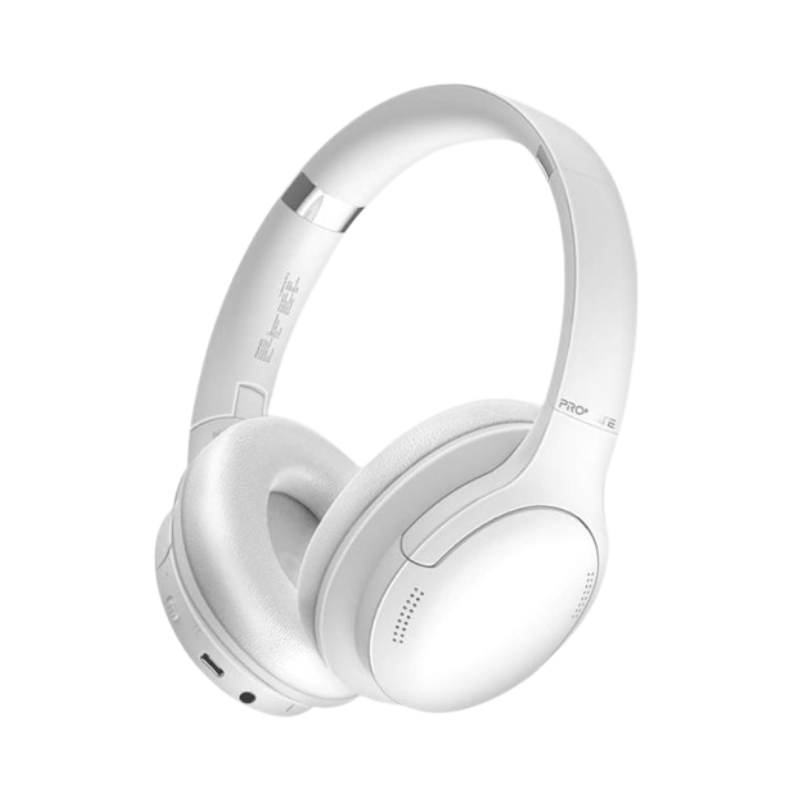
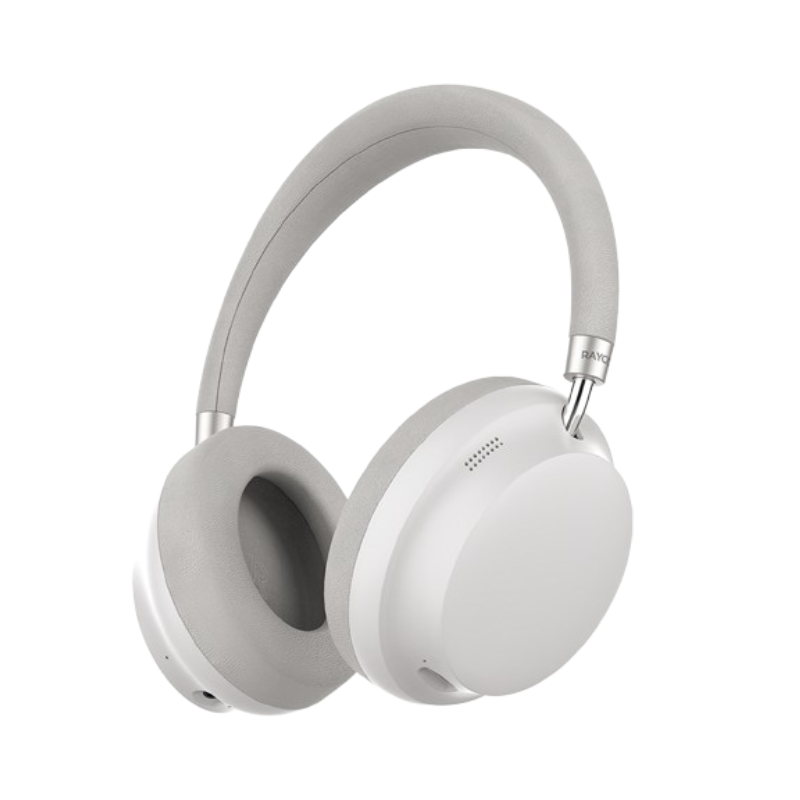
Update product details layout and add thumbnails and related products
Adjusted product details page layout and styling.

Added new product thumbnail images.

Implemented related products section.

Changed region(s): [[0.1562, 0.0938, 0.8125, 0.9062], [0.4688, 0.0938, 0.5, 0.125]]

diff --git a/assets/pages/product-details.html b/assets/pages/product-details.html
@@ -47,18 +47,24 @@
             <div class="product-media">
                 <div class="product-thumbnails">
                     <button class="product-thumbnail">
-                        <img src="" alt="" class="product-thumbnail-image">
+                        <img src="../images/product-details/basspods-max/basspods-max.png" alt=""
+                            class="product-thumbnail-image">
                     </button>
                     <button class="product-thumbnail">
-                        <img src="" alt="" class="product-thumbnail-image">
+                        <img src="../images/product-details/basspods-max/basspods-max-2.png" alt=""
+                            class="product-thumbnail-image">
                     </button>
                     <button class="product-thumbnail">
-                        <img src="" alt="" class="product-thumbnail-image">
+                        <img src="../images/product-details/basspods-max/basspods-max-3.png" alt=""
+                            class="product-thumbnail-image">
                     </button>
-                    <!-- So on for more thumbnails -->
+                    <button class="product-thumbnail">
+                        <img src="../images/product-details/basspods-max/basspods-max-4.png" alt=""
+                            class="product-thumbnail-image">
+                    </button>
                 </div>
                 <figure class="product-media-main">
-                    <img src="../images/products/earpods/earpods-pro.png" alt="EarBuds main image"
+                    <img src="../images/product-details/basspods-max/basspods-max.png" alt="EarBuds main image"
                         class="product-media-image">
                 </figure>
             </div>
@@ -66,8 +72,8 @@
                 <header class="product-header">
                     <div class="product-details-info">
                         <h3 class="product-title">BassPods Max</h3>
-                        <p class="product-details-descriptionn">BassPods Max deliver powerful bass and clear sound in a
-                            compact wireless design.</p>
+                        <p class="product-description-summary">BassPods Max offer deep bass, clear audio, and a sleek
+                            wireless design for everyday listening comfort.</p>
                         <div class="product-rating">
                             <i class="fa-solid fa-star"></i>
                             <i class="fa-solid fa-star"></i>
@@ -119,15 +125,100 @@
                 <div class="product-quantity-selector">
                     <label for="quantity-count" class="quantity-label">Quantity</label>
                     <div class="quantity-selector-wrapper">
-                        <button class="btn-minus"><i class="fa-solid fa-minus"></i></button>
+                        <button class="btn-quantity btn-minus"><i class="fa-solid fa-minus"></i></button>
                         <input type="number" name="quantity-count" id="quantity-count" class="quantity-count" value="1">
-                        <button class="btn-plus"><i class="fa-solid fa-plus"></i></button>
+                        <button class="btn-quantity btn-plus"><i class="fa-solid fa-plus"></i></button>
                     </div>
                 </div>
                 <div class="product-actions">
                     <button type="submit" class="btn btn-secondary btn-atc"><span>Add to Cart</span></button>
                 </div>
             </div>
+        </div>
+    </section>
+    <!-- ===== Section: Related Products ===== -->
+    <section class="section related-products">
+        <h2 class="section-heading">You May Also Like...</h2>
+        <div class="products-grid">
+            <article class="product-card sale-product">
+                <span class="product-badge badge-sale"><span class="sale-percent">45</span>% Off</span>
+                <div class="product-image-wrapper">
+                    <img src="/assets/images/products/headphones/wavepods-ultra.png" alt="WavePods Ultra"
+                        class="product-image" />
+                </div>
+                <div class="product-content">
+                    <div class="product-info">
+                        <h3 class="product-title">WavePods Ultra</h3>
+                        <div class="product-price">
+                            <span class="price-regular">
+                                <span class="price-currency">PKR</span>
+                                <span class="price-amount">8,499</span>
+                            </span>
+                            <span class="price-sale">
+                                <span class="price-currency">PKR</span>
+                                <span class="price-amount">4,674</span>
+                            </span>
+                        </div>
+                    </div>
+                    <div class="action-buttons product-actions">
+                        <a href="#" class="btn btn-primary">
+                            <span>See Details</span>
+                            <i class="fa-solid fa-chevron-right"></i>
+                        </a>
+                        <button class="btn-circle"><i class="fa-solid fa-bag-shopping"></i></button>
+                    </div>
+                </div>
+            </article>
+            <article class="product-card">
+                <span class="product-badge badge-new">New</span>
+                <div class="product-image-wrapper">
+                    <img src="/assets/images/products/headphones/audiocore-max.png" alt="AudioCore Max"
+                        class="product-image" />
+                </div>
+                <div class="product-content">
+                    <div class="product-info">
+                        <h3 class="product-title">AudioCore Max</h3>
+                        <div class="product-price">
+                            <span class="price-regular">
+                                <span class="price-currency">PKR</span>
+                                <span class="price-amount">7,499</span>
+                            </span>
+                        </div>
+                    </div>
+                    <div class="action-buttons product-actions">
+                        <a href="#" class="btn btn-primary">
+                            <span>See Details</span>
+                            <i class="fa-solid fa-chevron-right"></i>
+                        </a>
+                        <button class="btn-circle"><i class="fa-solid fa-bag-shopping"></i></button>
+                    </div>
+                </div>
+            </article>
+            <article class="product-card">
+                <span class="product-badge badge-mostsold">Most Sold</span>
+                <div class="product-image-wrapper">
+                    <img src="/assets/images/products/headphones/beatforce-x1.png" alt="BeatForce X1"
+                        class="product-image" />
+                </div>
+                <div class="product-content">
+                    <div class="product-info">
+                        <h3 class="product-title">BeatForce X1</h3>
+                        <div class="product-price">
+                            <span class="price-regular">
+                                <span class="price-currency">PKR</span>
+                                <span class="price-amount">6,999</span>
+                            </span>
+                        </div>
+                    </div>
+                    <div class="action-buttons product-actions">
+                        <a href="#" class="btn btn-primary">
+                            <span>See Details</span>
+                            <i class="fa-solid fa-chevron-right"></i>
+                        </a>
+                        <button class="btn-circle"><i class="fa-solid fa-bag-shopping"></i></button>
+                    </div>
+                </div>
+            </article>
         </div>
     </section>
     <!-- ===== Section: Footer ===== -->

diff --git a/assets/css/sections/product-details.css b/assets/css/sections/product-details.css
@@ -2,15 +2,15 @@
     display: flex;
     justify-content: center;
     flex-wrap: wrap;
-    gap: 2rem 5rem;
+    gap: 2rem;
     width: 100%;
 }
 
 .product-media {
     display: flex;
     justify-content: space-between;
-    flex: 1 1 45%;
-    height: 25rem;
+    flex: 1 1 48%;
+    height: auto;
 }
 
 .product-media-image {
@@ -20,24 +20,41 @@
 }
 
 .product-thumbnails {
-    width: 12%;
+    width: 15%;
     height: 100%;
     display: flex;
     flex-direction: column;
     align-items: center;
     gap: var(--spacing-lg);
+    overflow: auto;
+}
+
+.product-thumbnails>*:not(:first-child) {
+    opacity: 0.5;
+}
+
+.product-thumbnails::-webkit-scrollbar {
+    display: none;
 }
 
 .product-thumbnail {
-    width: 3rem;
-    height: 3rem;
+    width: 100%;
+    height: auto;
     border: 2px solid #fff;
+    background-color: #fff;
     border-radius: var(--radius-sm);
 }
 
-.product-media-main {
-    width: 85%;
+.product-thumbnail-image {
+    width: 100%;
     height: 100%;
+    object-fit: contain;
+}
+
+.product-media-main {
+    width: 83%;
+    height: 100%;
+    background-color: #fff;
     border: 2px solid #fff;
     border-radius: var(--radius-sm);
     overflow: hidden;
@@ -71,7 +88,7 @@
 }
 
 .quantity-selector-wrapper {
-    width: 20%;
+    max-width: 25%;
     display: flex;
     justify-content: center;
     align-items: center;
@@ -88,6 +105,10 @@
     border: none;
 }
 
+.btn-quantity {
+    color: #888;
+}
+
 .btn-minus,
 .btn-plus {
     font-size: var(--font-size-sm);
@@ -95,10 +116,6 @@
 
 .quantity-count::-webkit-inner-spin-button {
     display: none;
-}
-
-.btn-atc {
-    width: 100%;
 }
 
 .product-options {
@@ -127,7 +144,7 @@
     height: 2.5rem;
     display: inline-block;
     padding: 0.2rem;
-    border: 2px solid #ddd;
+    border: 2px solid #888;
     border-radius: var(--radius-full);
     cursor: pointer;
 }
@@ -153,4 +170,8 @@
 
 .color-swatch__visual--red {
     background: #e53935;
+}
+
+.btn-atc {
+    width: 100%;
 }

diff --git a/assets/css/common/common-sections.css b/assets/css/common/common-sections.css
@@ -12,13 +12,22 @@
     text-transform: uppercase;
 }
 
+.section-heading {
+    display: inline-block;
+    align-self: center;
+    font-size: var(--font-size-lg);
+    color: var(--color-text);
+    text-transform: uppercase;
+}
+
 .hero,
 .most-sold-products,
 .products,
 .new-products,
 .new-arrivals,
 .deals,
-.deal {
+.deal,
+.related-products {
     display: flex;
     flex-direction: column;
     justify-content: center;
